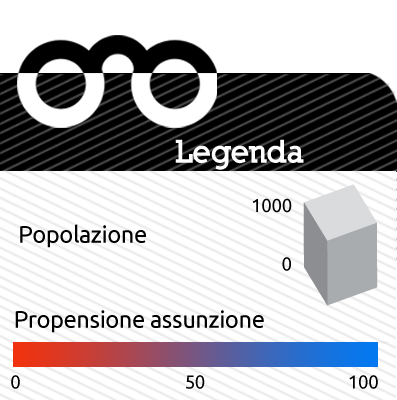
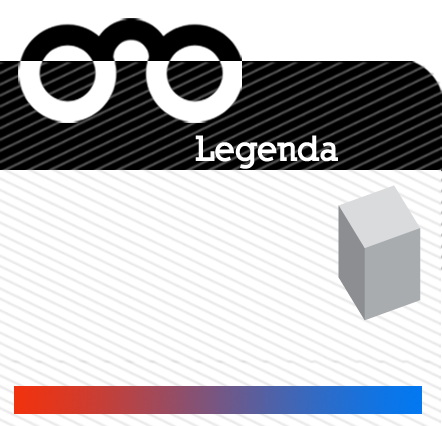
added dynamic labels and values to the legend

diff --git a/js/smartlab_viz.js b/js/smartlab_viz.js
@@ -104,6 +104,7 @@ function draw3DStat(geoData,statData) {
 		title = dataset.title;
 		description = dataset.description;
 		console.log("title: "+title);
+        $("#stat-title").html(title);
 		console.log("description: "+description);
 		color_prop = dataset.color_prop;
 		height_prop = dataset.height_prop;
@@ -111,6 +112,8 @@ function draw3DStat(geoData,statData) {
 		height_scaling_factor = dataset.height_scaling_factor;
 		color_label = dataset.color_label;
 		height_label = dataset.height_label;
+        $("#stat-dimcolor").html(color_label);
+        $("#stat-dimhigh").html(height_label);
 		color_unit = dataset.color_unit;
 		height_unit = dataset.height_unit;
 		console.log("color_prop: "+color_prop);
@@ -455,7 +458,7 @@ function initGUI() {
 
 		} 
 		if(this.INTERSECTED) {
-                        ddrivetip('<p><b>'+this.hover_name+'</b><br />'+this.height_label+': '+this.hover_height+this.height_unit+'<br />'+this.color_label+': '+this.hover_color+this.color_unit+'</p>','rgba(220,228,92,0.6)', 300);
+                        ddrivetip('<p><b>'+this.hover_name+'</b><br />'+this.height_label+': '+this.hover_height+this.height_unit+'<br />'+this.color_label+': '+this.hover_color+this.color_unit+'</p>','rgba(231,231,231,0.8)', 300);
 		} else {
 			hideddrivetip();
 		}

diff --git a/regioni.html b/regioni.html
@@ -53,9 +53,12 @@
       <!-- img src="img/tools-handler.png" alt="tools" -->
       <div id="slideout_inner"> 
         <div id="infoarea">
+          <div id="stat-title-div" style="width:230px;height:40px"><p id="stat-title" class="fontlegend"></p></div>
           <div id="legend" class="img-thumbnail">
             <img src="img/legend1.png" style="max-width:230px; height: auto;">
           </div>
+          <div style="position:absolute;top:165px;left:25px;width:160px;text-align:right;line-height:12px;"><span id="stat-dimhigh" class="fontlegend"></span></div>
+          <div style="position:absolute;top:225px;left:25px;width:200px;text-align:left;line-height:12px;height:30px;"><div style="position:absolute;bottom:0px;"><span id="stat-dimcolor" class="fontlegend"></span></div></div>
         </div>
       </div>
     </div>
@@ -134,6 +137,5 @@
         }
     </script>
     <script type="text/javascript" src="js/popup.js"></script>
-
   </body>
 </html>

diff --git a/css/smartdata.css b/css/smartdata.css
@@ -16,14 +16,8 @@
   -moz-border-radius: 5px;
   border-radius: 5px;
   color: #000000;
-  background-color: rgba(255,0,0,0.8);
-  border: 2px solid #dce45c;
-  /*filter: alpha(opacity=40);*/
-/*  width: 150px; 
-  border: 2px solid black;
-  padding: 2px;
-  background-color: lightyellow;
-  z-index: 100;*/
+  background-color: rgba(231,231,231,0.8);
+  border: 2px solid #e7e7e7;
   text-align:center;
   font-size:10pt
 }
